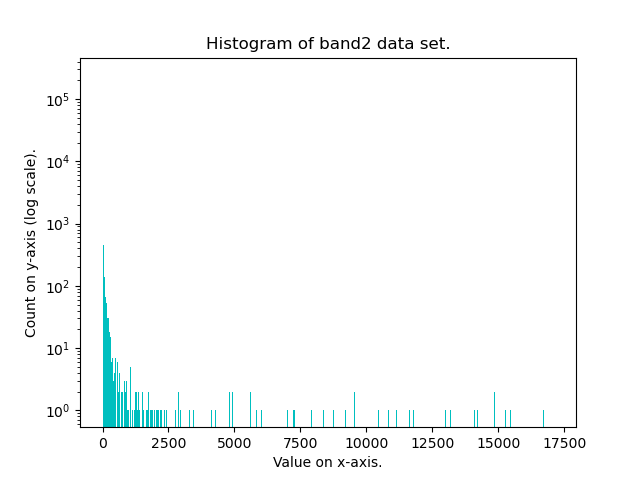
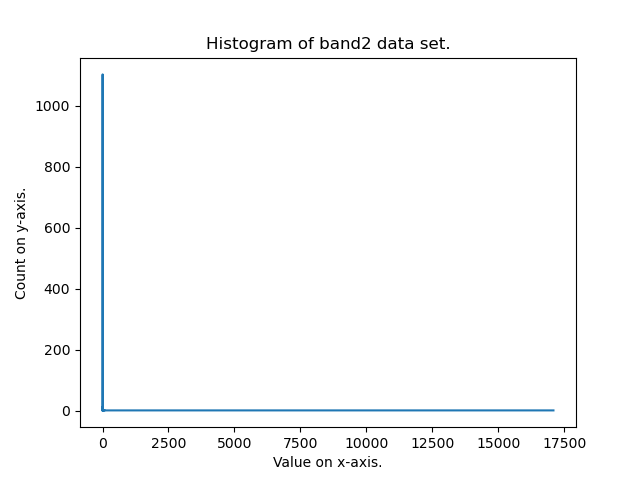
Update Histogram.

diff --git a/Assignments/Assignment 3/Equalization.py b/Assignments/Assignment 3/Equalization.py
@@ -32,6 +32,12 @@ def readDataFromFile(filePath):
             arr.append((float(item)))
     return arr
 
+def findAbsoluteOccurenceOfValue(r_arr, oneD_Band):
+    result = []
+    r_arr_length = len(r_arr)        
+    for i in range(r_arr_length):
+        result.append(oneD_Band.count(r_arr[i]))
+    return result
 # with open("./orion/i170b2h0_t0.txt","r") as rf2:
     # lineData = rf2.readlines()
 # 
@@ -53,9 +59,9 @@ band3_1d = readDataFromFile("./orion/i170b3h0_t0.txt")
 band3_2d = np.asarray(band3_1d).reshape(rows,cols)
 band4_1d = readDataFromFile("./orion/i170b4h0_t0.txt")
 band4_2d = np.asarray(band4_1d).reshape(rows,cols)
-plt.imshow(band2_2d)
-plt.savefig("Band2.png")
-plt.show()
+# plt.imshow(band1_2d)
+# plt.savefig("Band2.png")
+# plt.show()
 # print(band2_2d)
 # print(len(band2_2d))
 # Read the band2 data from fle end.
@@ -88,10 +94,11 @@ print("Varience value = ",varianceValue)
 # Profile line through the Max. value of band2 data end.
 
 # Display Histogram of band2 Data start.
-# plt.hist(band2_1d, bins= 500,log=True, color='c')
+# rlist = np.unique(band2_1d)
+# plt.plot(rlist,findAbsoluteOccurenceOfValue(rlist, band2_1d))
 # plt.title('Histogram of band2 data set.')
-# plt.xlabel('Value on x-axis.')
-# plt.ylabel('Count on y-axis (log scale).')
+# plt.xlabel('Data value on x-axis.')
+# plt.ylabel('Count on y-axis.')
 # plt.savefig("Histogram.png")
 # plt.show()
 # Display Histogram of band2 Data End.
@@ -110,16 +117,17 @@ print("Varience value = ",varianceValue)
 # Rescale values to range between 0 and 255 using transformation end.
 
 # Histogram equalization on each of the four bands start.
-def findUniqueValue(arr):
-    # for i in range(len(arr)):
-    return np.unique(arr) # need to rework to avoid library.
+def findUniqueValue(oneD_Band):
+    result = []
+    oneD_Band_length = len(oneD_Band)
+    for i in range(oneD_Band_length):
+        if(oneD_Band[i] not in result):
+            result.append(oneD_Band[i])    
+    return result
 
-def findAbsoluteOccurenceOfValue(arr, x):
-    count = 0
-    for element in arr:
-        if (element == x):
-            count = count + 1
-    return count
+print(np.unique(band1_1d))
+print(len(np.unique(band1_1d)))
+print(findUniqueValue(band1_1d))
 
 def findRelativeOccurenceOfValue(x):
     return (x / (rows * cols))
